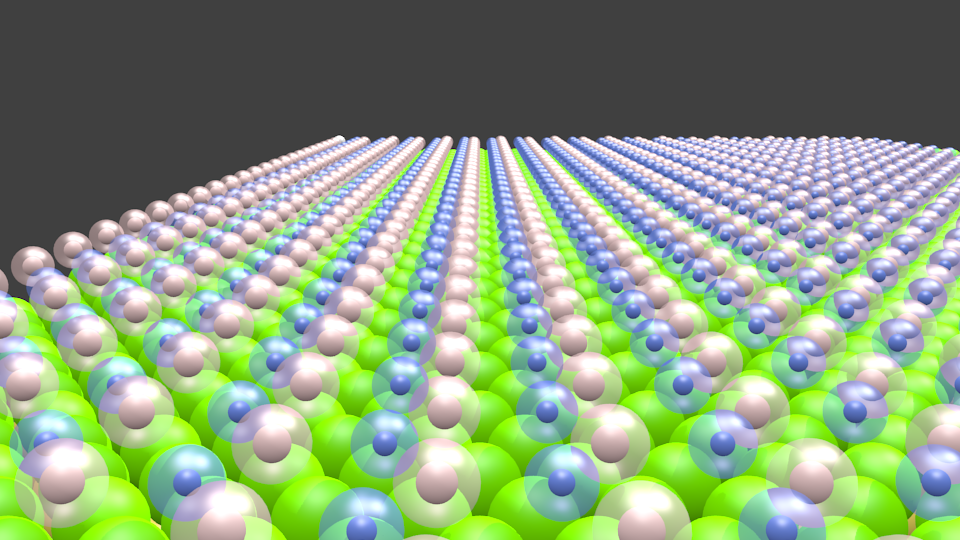
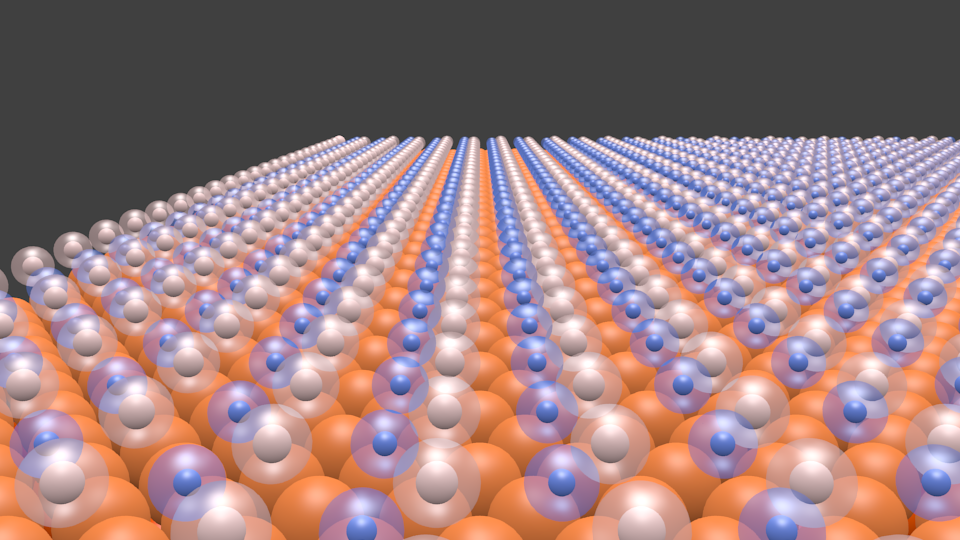
working...working

diff --git a/structures/bn_to_blender.py b/structures/bn_to_blender.py
@@ -26,7 +26,7 @@ def draw_BN():
 	dy=a1*sin(30)/sqrt(3)	
 
 #Iteration index, width of substrate drawn
-	n = 30
+	n = 50
 	scale = 1
 	add_vdW_balls = True
 	shapes = []
@@ -75,7 +75,7 @@ def draw_BN():
 	bpy.data.materials[key].transparency_method = "RAYTRACE"
 	bpy.data.materials[key].alpha=0.3
 
-
+# remove special atoms to achieve BN layer
 	delete_list_1 = []
 	for i in range(n):
 		delete_list_1.append(2+3*i)
@@ -156,51 +156,30 @@ def draw_BN():
 		shape.select = True
 	bpy.context.scene.objects.active = shapes[0]
 	bpy.ops.object.shade_smooth()
-	bpy.ops.object.join()
+#	bpy.ops.object.join()
+
 ############################################################
-	bpy.ops.object.select_all(action='DESELECT')
-	sphere.select = True
-	bpy.ops.object.delete()
+#	bpy.ops.object.select_all(action='DESELECT')
+#	sphere.select = True
+#	bpy.ops.object.delete()
 
 # Center object origin to geometry
 	bpy.ops.object.origin_set(type="ORIGIN_GEOMETRY", center="MEDIAN")
 
 	bpy.context.scene.update()
-def add_camera():
-	import bpy
-	tx = 0.0
-	ty = 0.0
-	tz = 5.0
 
-	rx = 0.0
-	ry = 0.0
-	rz = 0.0
-
-	fov = 50.0
-
-	pi = 3.14159265
-
-	scene = bpy.data.scenes["Scene"]
-
-	# Set render resolution
-	scene.render.resolution_x = 1080
-	scene.render.resolution_y = 920
-
-	# Set camera fov in degrees
-	scene.camera.data.angle = fov*(pi/180.0)
-
-	# Set camera rotation in euler angles
-	scene.camera.rotation_mode = 'XYZ'
-	scene.camera.rotation_euler[0] = rx*(pi/180.0)
-	scene.camera.rotation_euler[1] = ry*(pi/180.0)
-	scene.camera.rotation_euler[2] = rz*(pi/180.0)
-
-	# Set camera translation
-	scene.camera.location.x = tx
-	scene.camera.location.y = ty
-	scene.camera.location.z = tz
+def clear_scene():
+# If the starting cube is there, remove it
+	if "Cube" in bpy.data.objects.keys():
+		bpy.data.objects.get("Cube").select = True
+	if "Lamp" in bpy.data.objects.keys():
+		bpy.data.objects.get("Lamp").select = True
+	if "Camera" in bpy.data.objects.keys():
+		bpy.data.objects.get("Camera").select = True
+	bpy.ops.object.delete()
 
 # Runs the method
 if __name__ == "__main__":
+	clear_scene()
 	draw_BN()
-	add_camera()
+#	add_camera()

diff --git a/structures/substrate_to_blender.py b/structures/substrate_to_blender.py
@@ -19,20 +19,20 @@ with open(os.path.join(PATH, "atoms.json")) as in_file:
 ###############################################################
 def draw_substrate():
 # lattice dimension ... check scaling "C
-	scale = 1.5 			#scales atomic radius by scale - does not change lattice constant
+	scale = 1 			#scales atomic radius by scale - does not change lattice constant
 
-	a = 0.25
+	a = 0.25			#lattice constant in nm
 	a1 = a * 3.55	/ 1.095445	#sqrt(dx**2+dy**2)=sqrt(5/6)=1.095445
  #correct spacings for correct nearest neighbour distance to be a
 
 	dx=a1*cos(30)
 	dy=a1*sin(30)/sqrt(3)	
 
-	d= (3.61/sqrt(3)) * scale / 7
+	d= (3.61/sqrt(3)) * scale / 7	#reduce original layer spacing
 
-	layers = 2
+	layers = 2			### number of layers to draw
 #Iteration index, width of substrate drawn
-	n = 35
+	n = 50
 
 	shapes = []
 

diff --git a/konsole/snippets.py b/konsole/snippets.py
@@ -1,0 +1,22 @@
+###############################################################
+
+def render_all_cameras(path):
+	import os
+	scene = bpy.context.scene
+	for ob in scene.objects:
+		if ob.type == 'CAMERA':
+			bpy.context.scene.camera = ob
+			print('Set camera %s' % ob.name )
+			file = os.path.join(path, ob.name )
+			bpy.context.scene.render.filepath = file
+			bpy.ops.render.render( write_still=True )	
+
+###############################################################
+
+def antiphase_boundary():
+#	copy and translate by absoltute (0,0,0) antiphase_boundary_I
+#	copy and translate
+#### dx = 0,810173035
+#### dy = 0,935507239
+
+## 4*dx = 3,24069214
